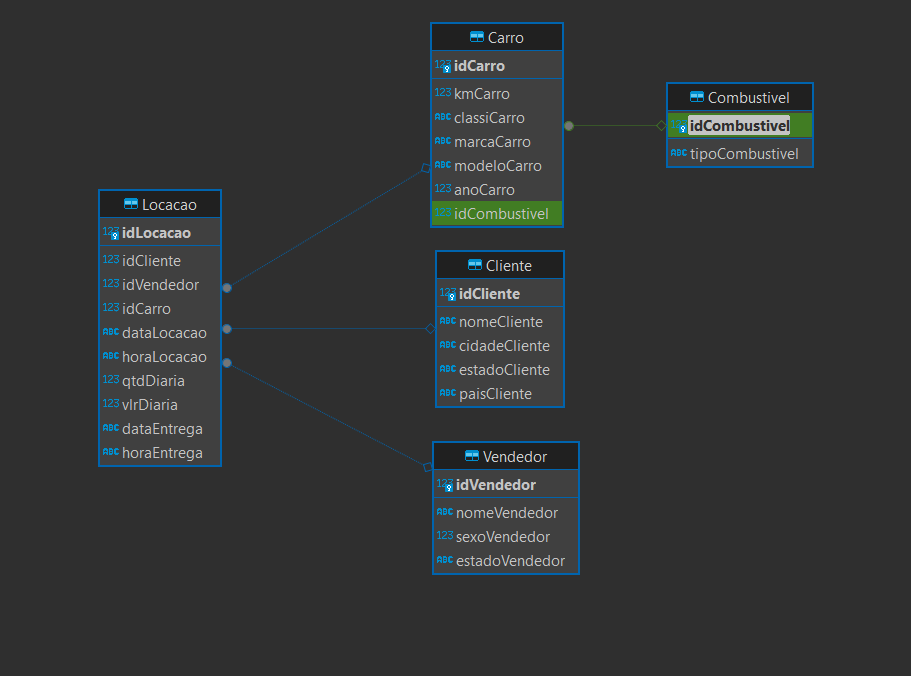
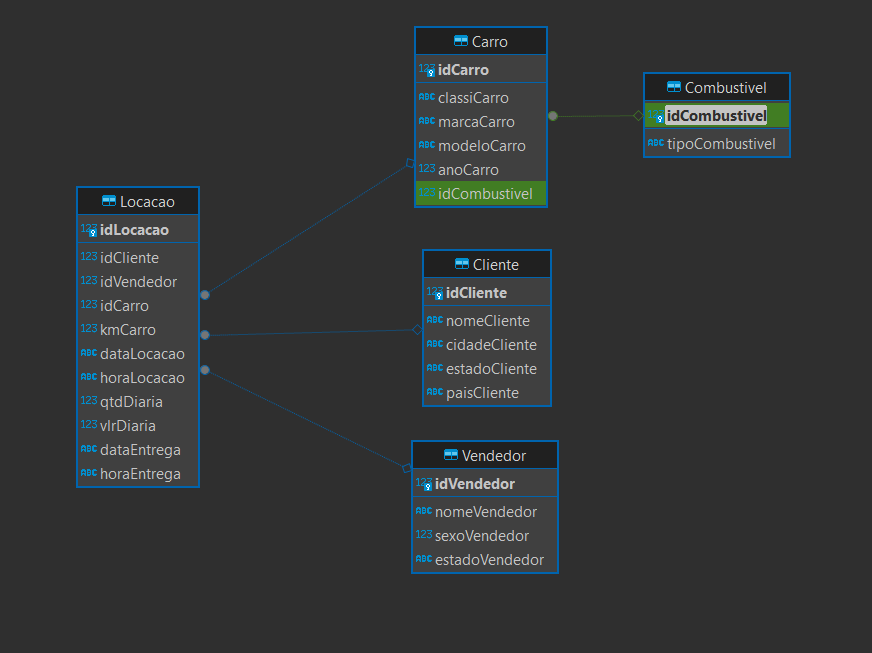
Atualizando atividades de modelagem da sprint 9

diff --git a/sprint_9/exercicios/dimensional/README.md b/sprint_9/exercicios/dimensional/README.md
@@ -1,3 +1,22 @@
 ## Modelagem Dimensional - Criação de Modelo
 
-- 
+- Realização da modelagem dimensional do banco de dados Concessionaria.
+
+Para melhor análise dos dados no banco, foi realizada a modelagem dimensional, reforçada pela criação das tabelas de dimensões e centralização com a tabela fato.
+
+A modelagem orientada pela seguinte pergunta: **"Qual foi a quilometragem média percorrida por clientes do estado de São Paulo que alugou carros a diesel nos últimos três anos?"**. 
+
+Logo, buscando responder a questão acima, a tabela fato incorporou as principais dimensões `Locacao`, `Cliente`, `Vendedor`e `Carro`, que em complemento, também possui as informações sobre a quantidade e valor da diária, além da quilometragem percorrida em cada locação.
+
+Com os relacionamentos estabelecidos entre as tabelas, torna-se possível consultar cada dimensão a procura dos dados desejados. Em que apenas a tabela `dim_carro` possui um "Outrigger", a tabela `dim_combustivel`, que representa uma tabela de dimensão secundária, normalizando rapidamente o tipo de combustível de cada carro. 
+
+Para resolver a pergunta em questão, com base na tabela `dim_locacao`, é possível filtrar as locações realizadas nos últimos três anos. Em seguida, com a `dim_cliente`, é possível selecionar aqueles do estado de São Paulo. Seguindo com a seleção das locações de carros a diesel pelo `idCombustível` partindo da dimensão carro, finalizando com a média de quilômetros percorridos (kmCarro), disponível na tabela fato.
+
+Seguindo a dica, foi criado a view das tabelas com base no seguinte código SQL:
+- [Código SQL](query/dim-concenssionaria.sql)
+
+> Como cliente, também foi utilizado o DBeaver.
+![Criando views](capturas/criando-views.png)
+
+> Sendo gerado o diagrama referente a _Modelagem Dimensional_ do banco Concessionaria.
+![Diagrama](capturas/diagrama.png)

diff --git a/sprint_9/exercicios/relacional/README.md b/sprint_9/exercicios/relacional/README.md
@@ -10,15 +10,15 @@ As colunas foram separadas e distribuídas entre as novas entidades de acordo co
 
 Na tabela `Carro`, também foi informado o `idCombustivel`, que faz referência à sua própria tabela que contém os tipos de combustíveis existentes, visto que mais de um carro pode consumir o mesmo tipo de combustível. 
 
-Já na tabela `Locacao`, foram referenciadas as tabelas `Carro`, `Vendedor` e `Cliente` por meio da utilização da chaves estrangeiras. Foram adicionadas colunas sobre data e hora da locação do veículo, o valor e a quantidade de diárias conforme cada locação e a entrega do veículo locado.
+Já na tabela `Locacao`, foram referenciadas as tabelas `Carro`, `Vendedor` e `Cliente` por meio da utilização da chaves estrangeiras. Foram adicionadas colunas sobre data e hora da locação do veículo, o valor e a quantidade de diárias conforme cada locação e a entrega do veículo locado. Assim como, o campo `kmCarro` foi mantido na tabela `Locacao`, pois refere-se à quilometragem rodada durante a locação.
 
 As tabelas foram criadas com base no seguinte código SQL:
 - [Código SQL](query/create-concessionaria.sql)
 
 > Como cliente, foi utilizado o DBeaver.
-![alt text](capturas/usando-dbeaver.png)
+![Criando tabelas](capturas/usando-dbeaver.png)
 
 > Sendo gerado o diagrama referente a _Modelagem Lógica_ do banco Concessionaria normalizado.
-![alt text](capturas/diagrama.png)
+![Diagrama](capturas/diagrama.png)
 
 

diff --git a/README.md b/README.md
@@ -78,7 +78,7 @@ Repositório destinado ao registro das atividades e desafios realizados durante 
 ### 🧩 [Sprint 8](sprint_8/README.md) ![Progress](https://progress-bar.dev/100/)
 - [x] Data & Analytics - PB
 
-### 🧩 [Sprint 9](sprint_9/README.md) ![Progress](https://progress-bar.dev/33/)
+### 🧩 [Sprint 9](sprint_9/README.md) ![Progress](https://progress-bar.dev/67/)
 - [ ] Data & Analytics - PB
 
 ### 🧩 Sprint 10 ![Progress](https://progress-bar.dev/0/)
